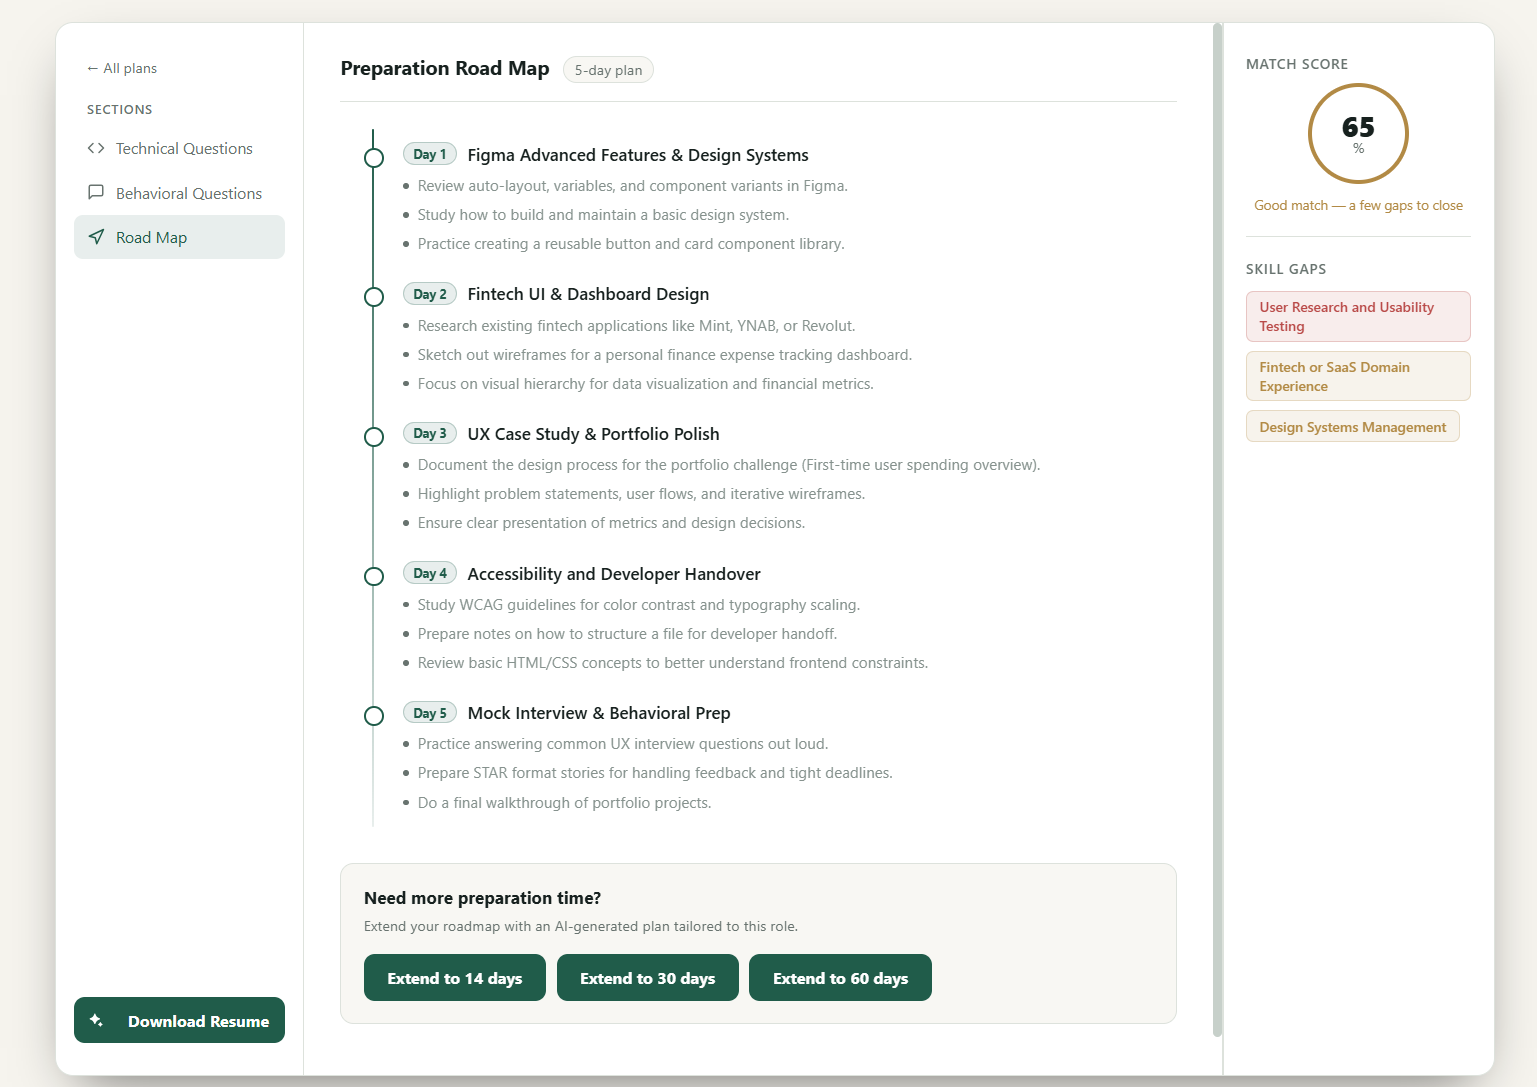
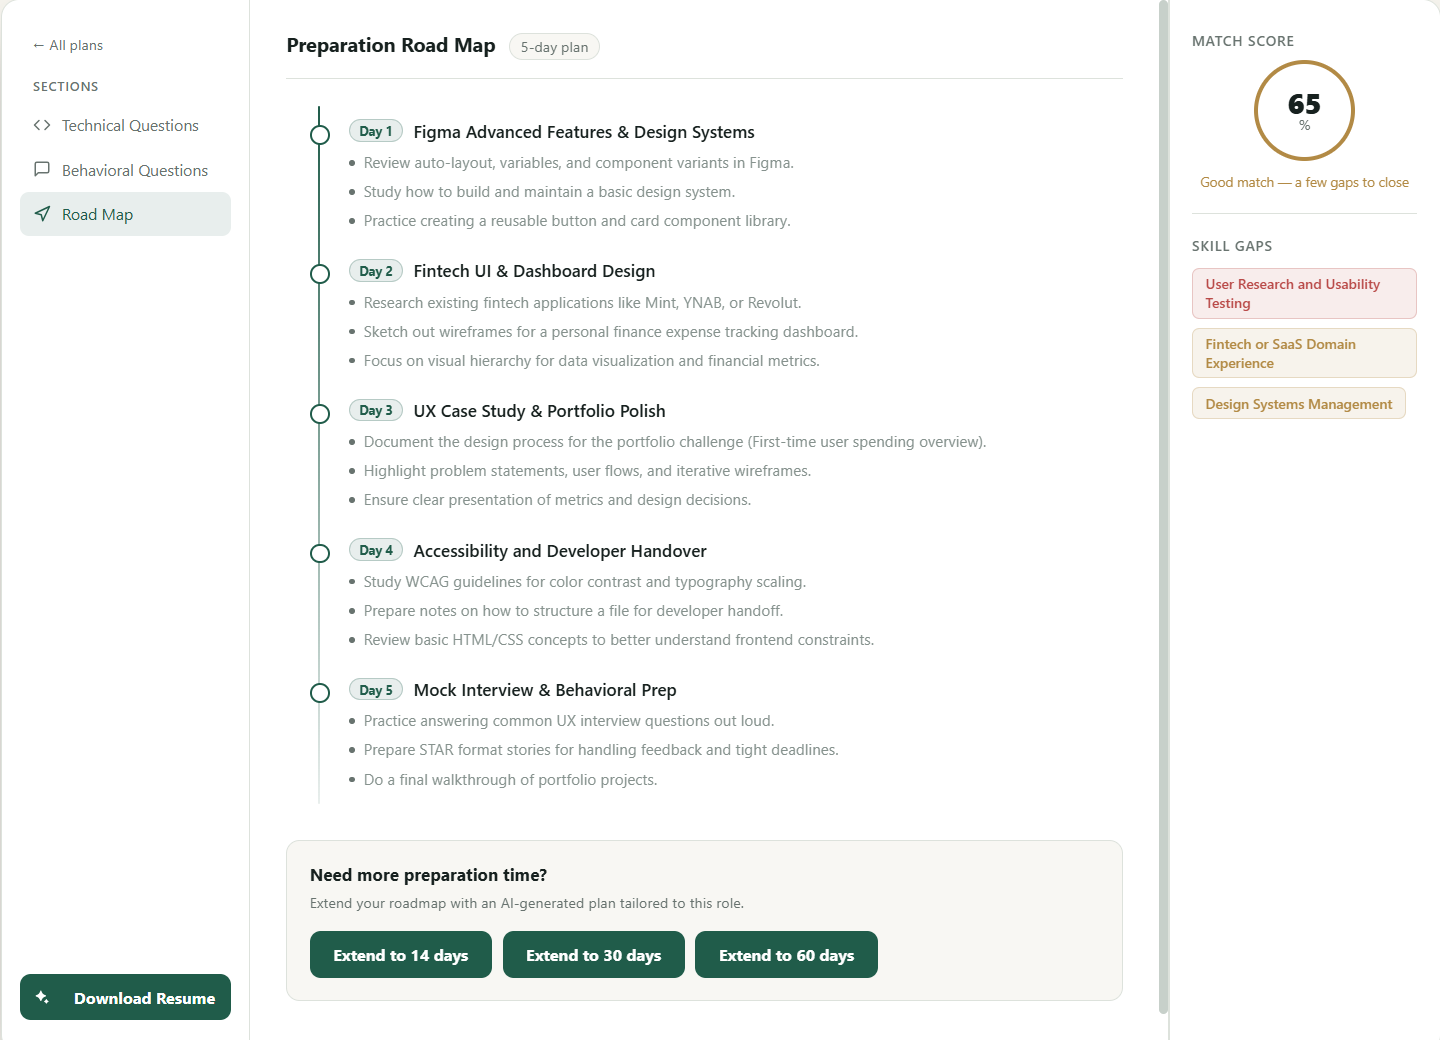
Refined project screenshot layout

Changed region(s): [[0.0, 0.0, 1.0, 1.0], [0.2188, 0.1231, 0.6875, 0.7692], [0.1875, 0.0308, 0.4062, 0.0923]]

diff --git a/css/styles.css b/css/styles.css
@@ -82,7 +82,9 @@ section {
 .ul:focus-visible {
   background-size: 100% 1px;
 }
+
 /* nav */
+
 header {
   position: sticky;
   top: 0;
@@ -139,7 +141,9 @@ nav ul a.on {
   color: var(--ink);
   cursor: pointer;
 }
+
 /* hero */
+
 .hero {
   border: 0;
   padding: 88px 0 96px;
@@ -227,7 +231,9 @@ nav ul a.on {
   background: var(--acc);
   margin-right: 8px;
 }
+
 /* about */
+
 .about {
   display: grid;
   grid-template-columns: 1fr 1.4fr;
@@ -237,7 +243,9 @@ nav ul a.on {
   margin: 0 0 18px;
   max-width: 62ch;
 }
+
 /* work */
+
 .proj {
   display: grid;
   grid-template-columns: 1.1fr 1fr;
@@ -348,7 +356,9 @@ nav ul a.on {
 .links a:hover .ar {
   transform: translate(3px, -3px);
 }
+
 /* experience / skills / misc */
+
 .exp {
   display: grid;
   grid-template-columns: 1fr 1.6fr;
@@ -501,4 +511,22 @@ footer a {
   .hero::before {
     display: none;
   }
+}
+
+/* ---- Project screenshot sizing ---- */
+
+.proj {
+  grid-template-columns: 1.1fr 0.9fr;
+  gap: 36px;
+}
+
+.image-preview {
+  padding: 0;
+  overflow: hidden;
+}
+
+.image-preview img {
+  width: 100%;
+  height: 100%;
+  display: block;
 }
